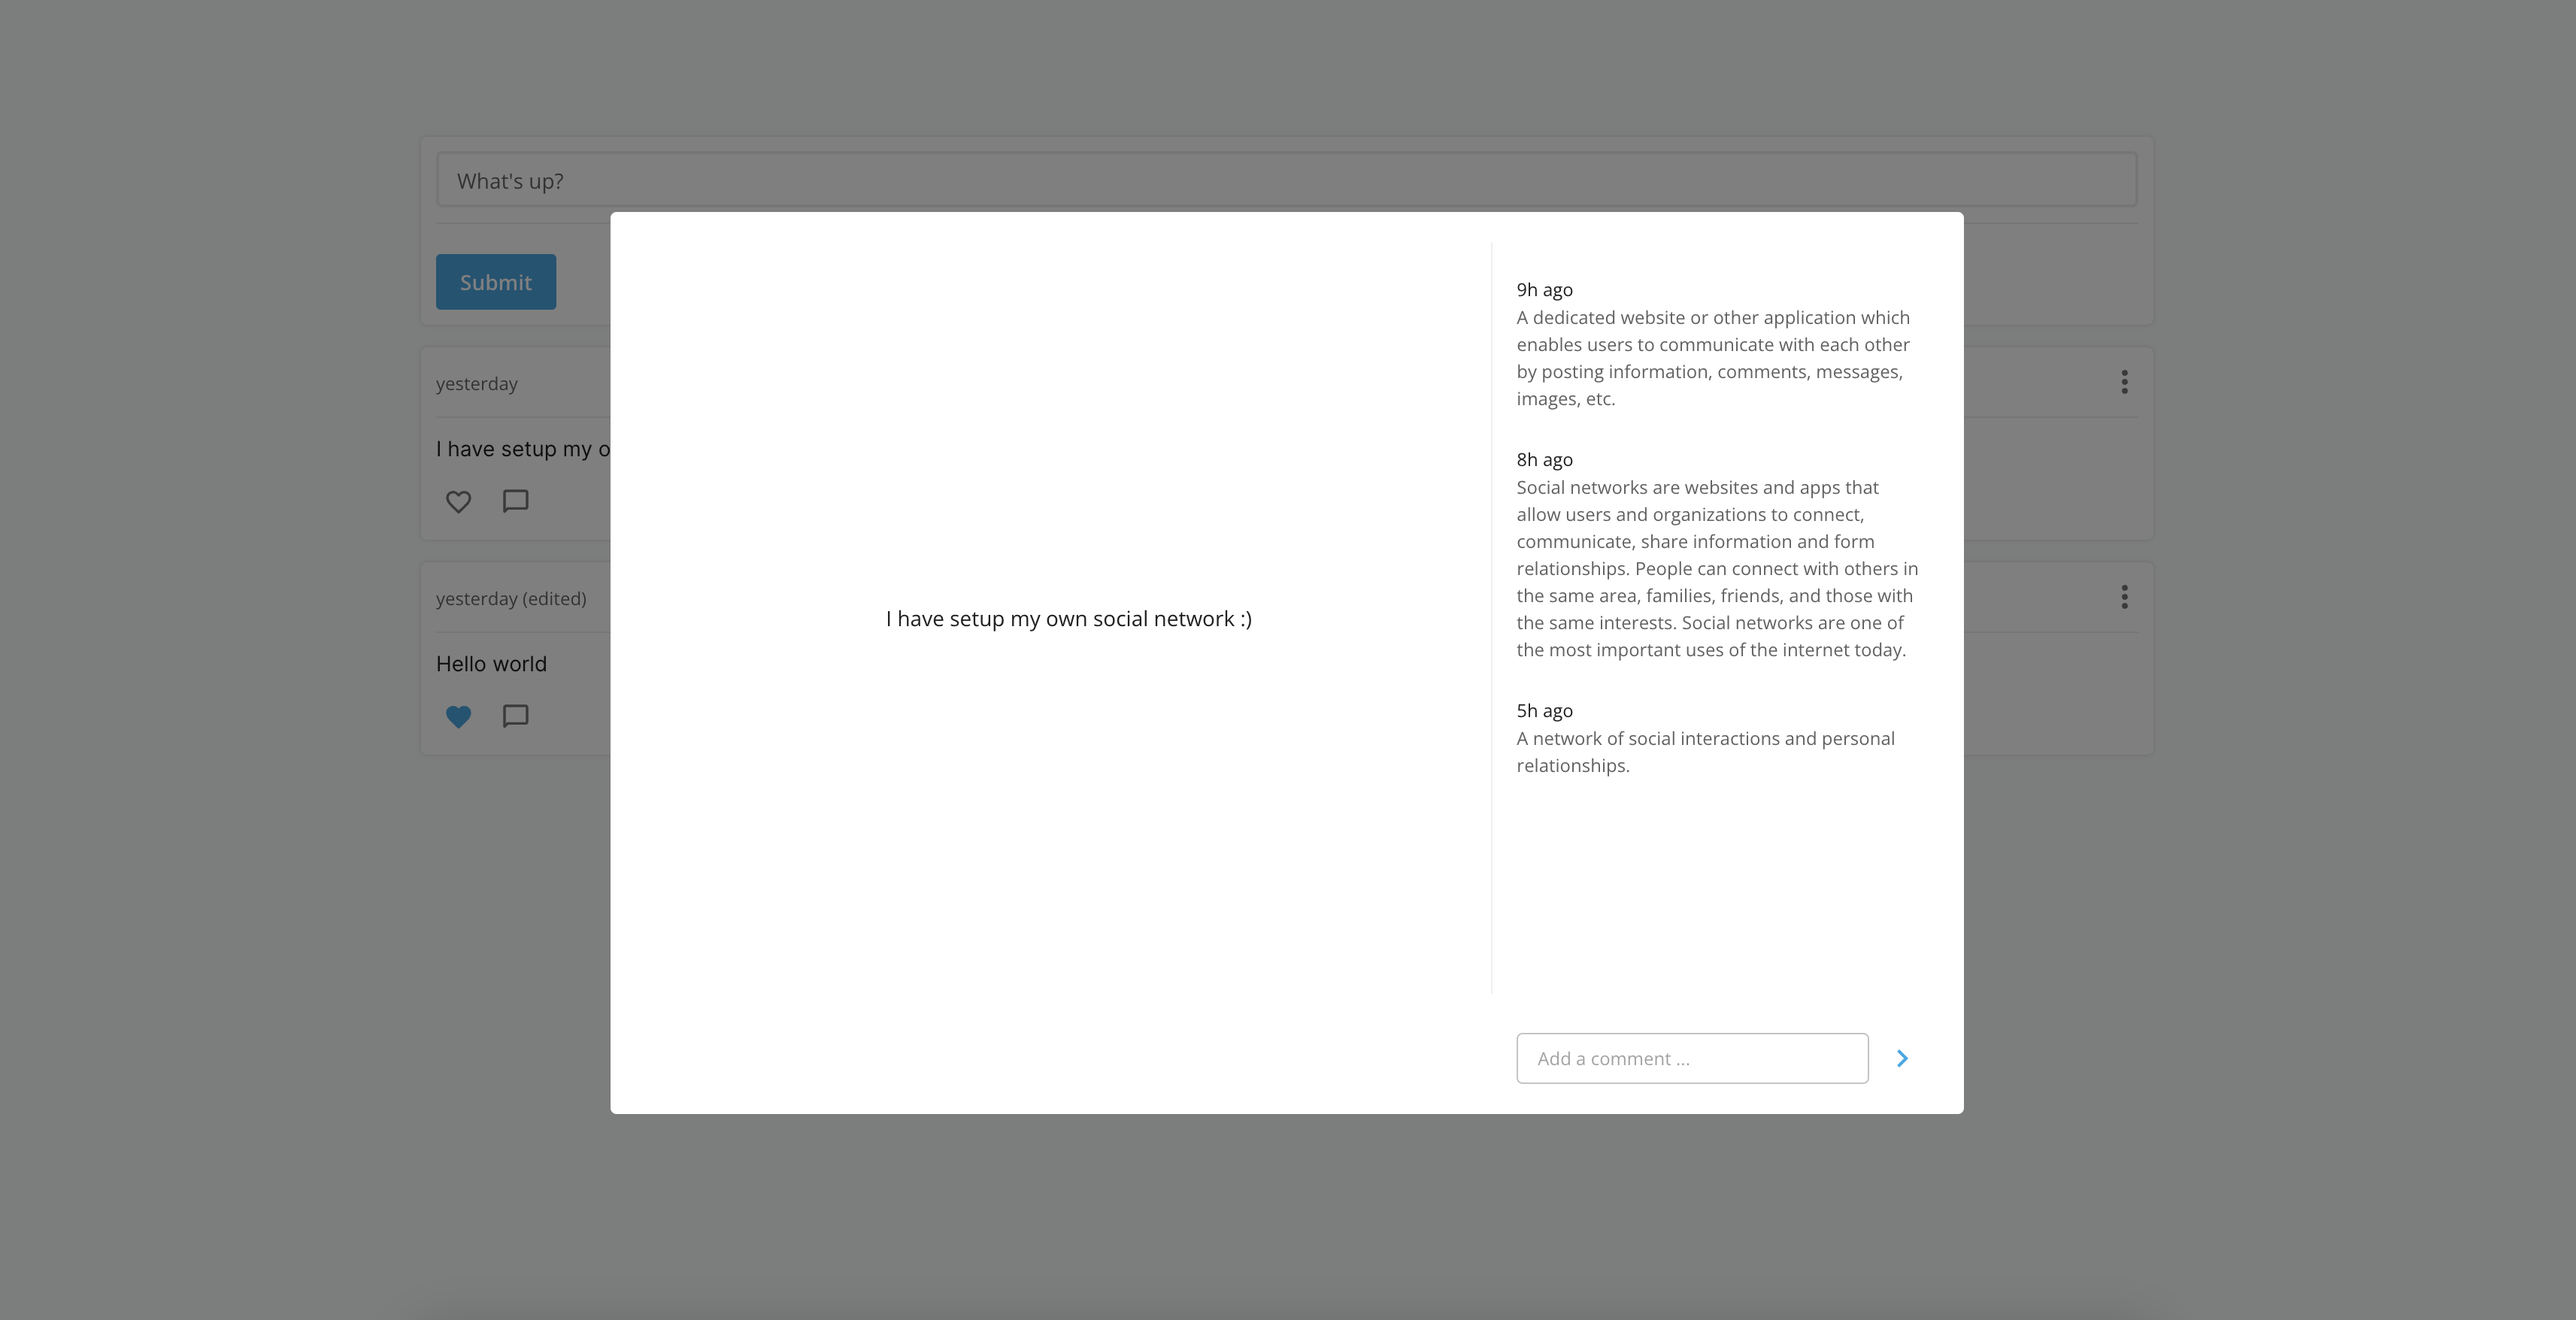
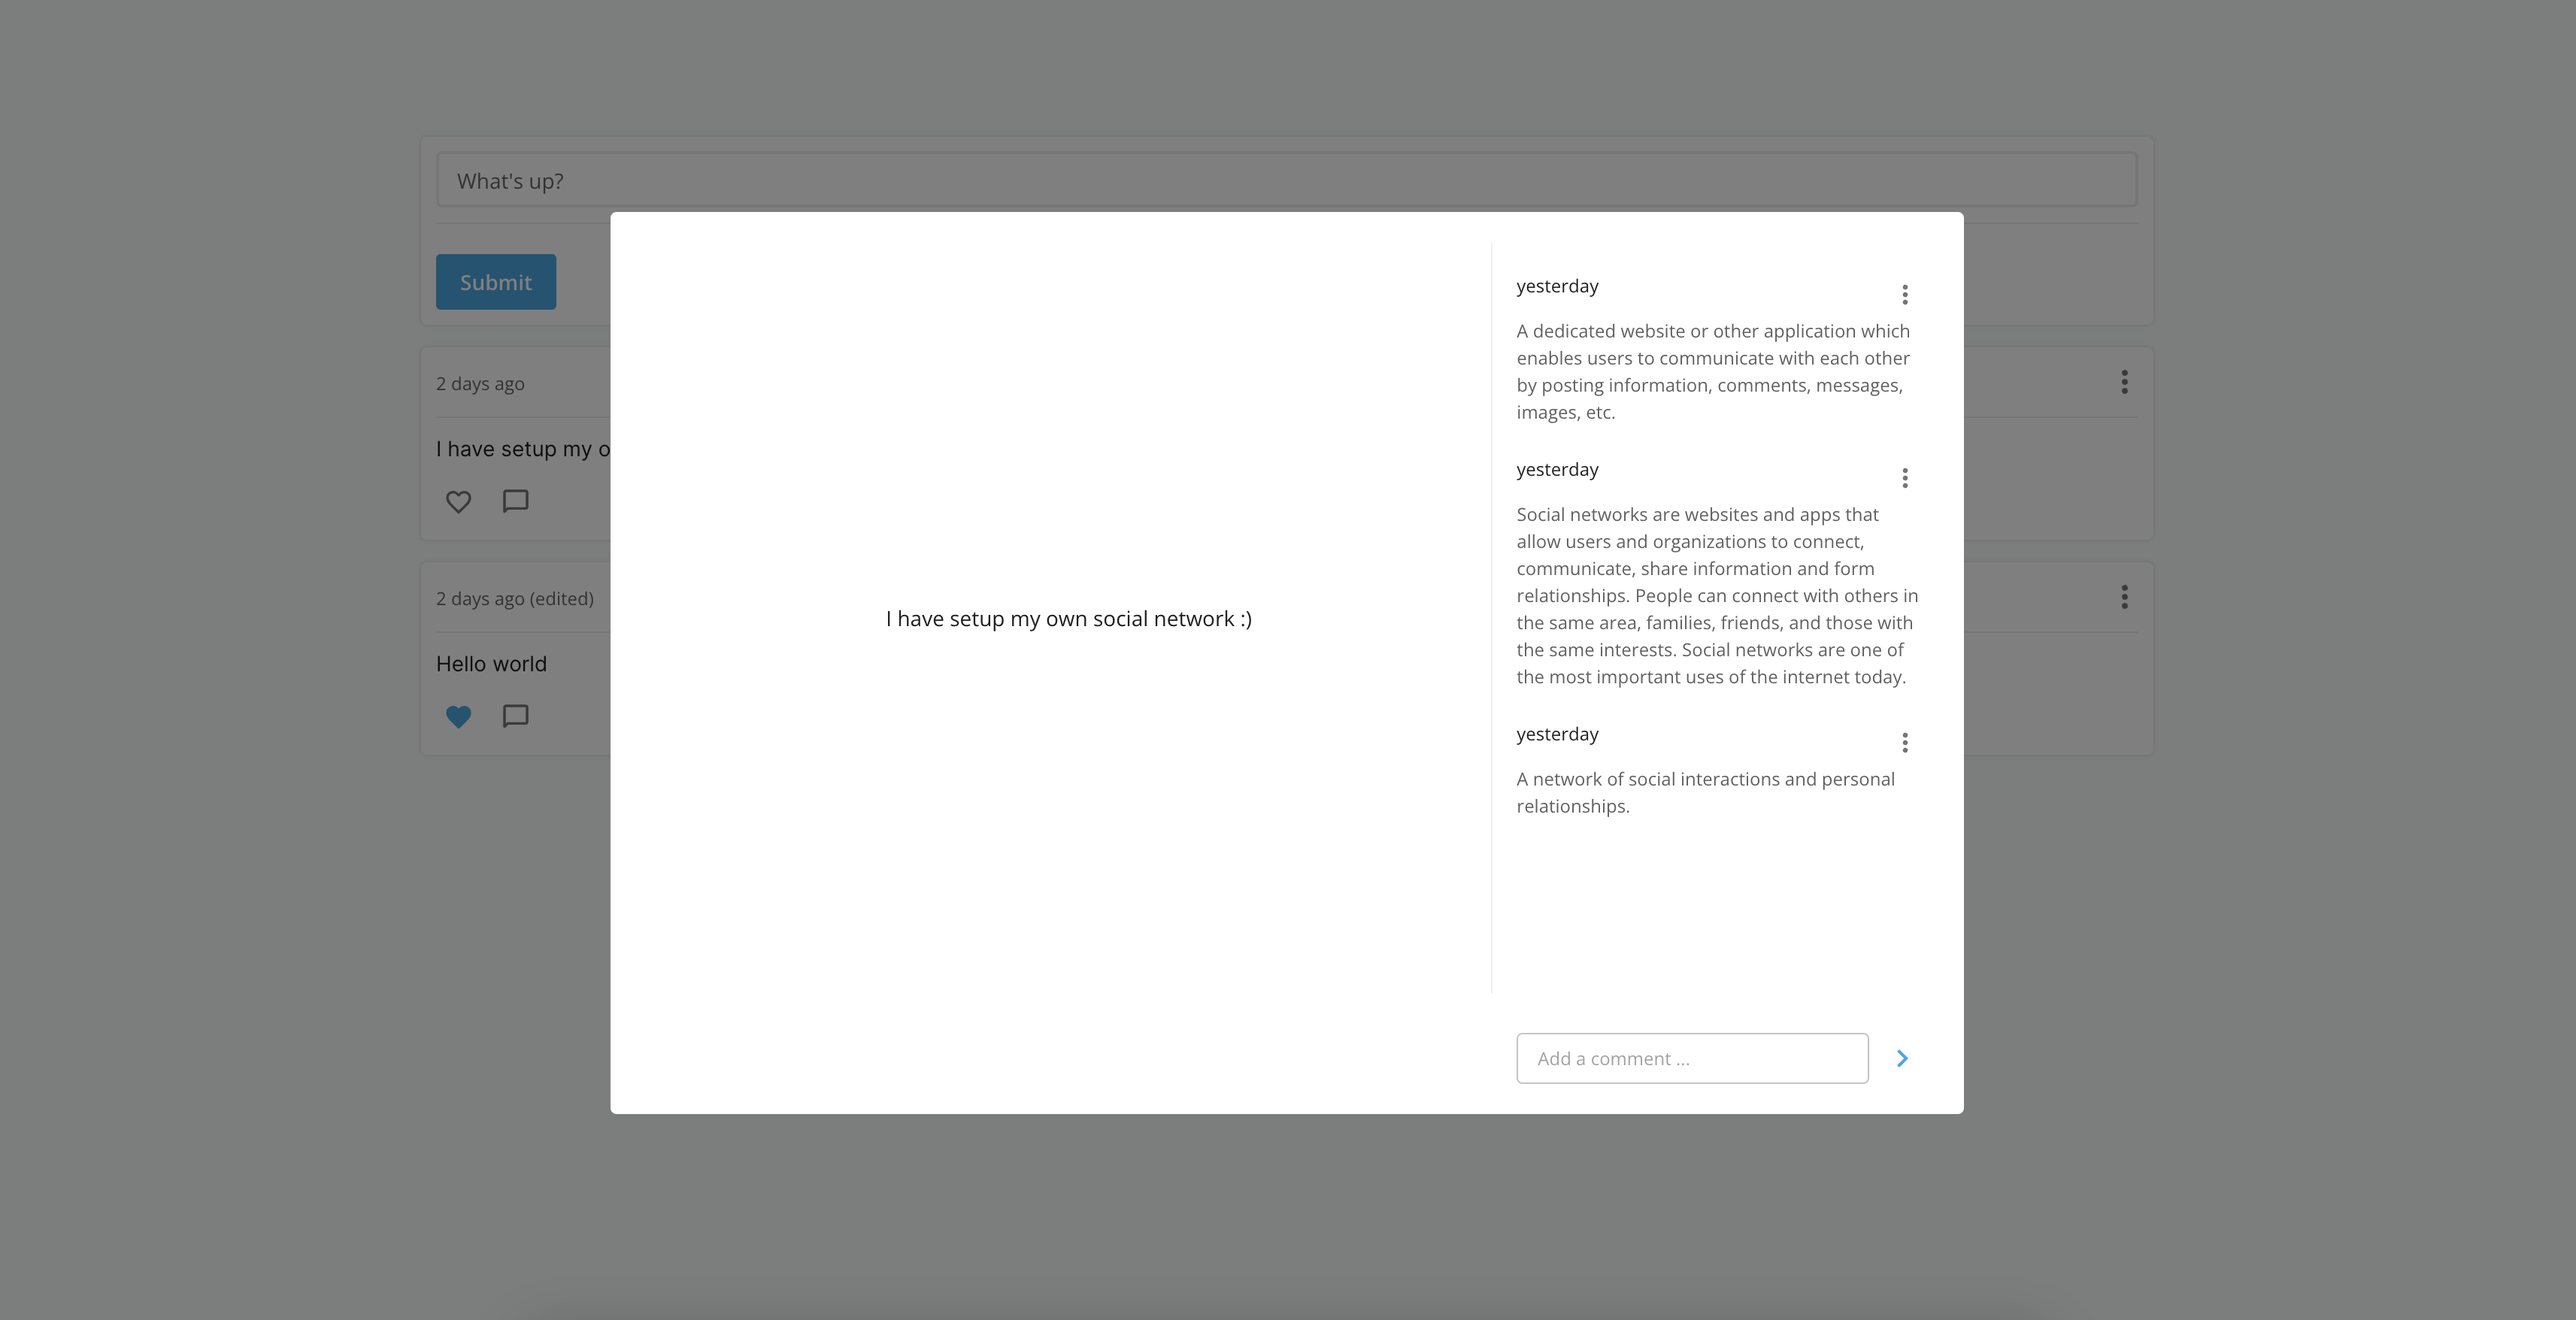
Enh

Changed region(s): [[0.5934, 0.2153, 0.7496, 0.5228], [0.5934, 0.5535, 0.7183, 0.615], [0.1874, 0.4305, 0.2186, 0.4613]]

diff --git a/ui/src/components/features/comment/CommentMenu.tsx b/ui/src/components/features/comment/CommentMenu.tsx
@@ -37,7 +37,7 @@ export const CommentMenu: FC<CommentMenuProps> = ({ comment }) => {
 
   return (
     <Box>
-      <IconButton onClick={handleClick} disableRipple>
+      <IconButton onClick={handleClick}>
         <MoreVertIcon fontSize="small" />
       </IconButton>
       <Menu anchorEl={anchorEl} onClose={handleClose} open={open}>

diff --git a/ui/src/components/features/post/PostMenu.tsx b/ui/src/components/features/post/PostMenu.tsx
@@ -48,7 +48,7 @@ export const PostMenu: FC<PostMenuProps> = ({ post }) => {
 
   return (
     <Box>
-      <IconButton onClick={handleClick} disableRipple>
+      <IconButton onClick={handleClick}>
         <MoreVertIcon />
       </IconButton>
       <Menu anchorEl={anchorEl} onClose={handleClose} open={open}>

diff --git a/readme.md b/readme.md
@@ -8,14 +8,14 @@ Gneiss is an open-source social network kit that allows you to build your own pr
 
 ## Features
 
-* **Posts**:  Create, update, delete posts
+* **Posts**:  Create, edit, delete posts
 * **Likes**: Like/unlike posts
+* **Comments**: Create and delete comments on posts
 
 ### TODO
 
 * **User management**:  Sign in, sign up, reset password, account settings
 * **Profile**: User profile
-* **Comments**: Comment on posts
 * **Wall**: Display posts on user wall
 * **Notifications**: Display internal and email notifications
 * **Spaces**: Dedicated place for a subset of users to connect and share privately
